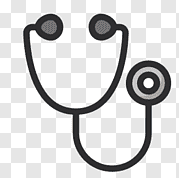
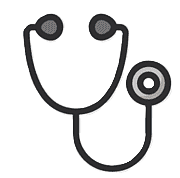
botones en inicio incluidos

diff --git a/src/app/pages/inicio/inicio.css b/src/app/pages/inicio/inicio.css
@@ -11,16 +11,7 @@
     margin-bottom: 0 !important; /* <--- Asegura que el carrusel no tenga margen inferior */
     margin-top: 0 !important;    /* <--- Asegura que no tenga margen superior */
 }
-.btn1 {
-  background: var(--grad-clinacap);
-  color: #ffffff;
-  font-weight: bold;
-  border: none;
-  border-radius: 8px;
-  padding: 12px 24px;
-  box-shadow: 0 4px 6px rgba(0, 86, 145, 0.2);
-}
-/* Traducido a CSS estándar para tu archivo navbar.css */
+
 .carousel {
     --carousel-transition-duration: .6s;
 }
@@ -38,14 +29,14 @@
     opacity: 0.9;
 }
 
-/* Ajuste de la transición suave que pediste */
+/* Ajuste de la transición suave  */
 .carousel-item {
     transition: transform var(--carousel-transition-duration) ease-in-out;
 }
 /* Ajusta el tamaño del contenedor del carrusel */
 .carousel-inner {
-    max-height: 420px; /* Cambia este valor a tu gusto (ej. 300px o 500px) */
-    background-color: #f8f9fa; /* Color de fondo si la imagen no llena el ancho */
+    max-height: 420px; 
+    background-color: #f8f9fa; 
 }
 
 /* Ajusta las imágenes para que no se deformen */
@@ -54,4 +45,58 @@
     object-fit: cover; /* 'contain' para que se vea la imagen completa, 'cover' para que llene el espacio */
     margin: 0 auto; /* Centra la imagen si es más angosta que la pantalla */
   
+}
+
+/* Contenedor principal de los accesos */
+.menu-accesos {
+    display: flex;
+    justify-content: center;
+    gap: 40px;          /* Espacio entre botones */
+    padding: 40px 20px;
+    background-color: #e2f1f0;
+}
+
+/* Contenedor individual (Imagen + Texto) */
+.acceso-item {
+    display: flex;
+    flex-direction: column;
+    align-items: center;
+    text-align: center;
+}
+
+/* El botón circular */
+.btn-circular {
+    width: 100px;       /* Ajusta el tamaño según prefieras */
+    height: 100px;
+    border-radius: 30%; /* Lo hace redondo */
+    border: 3px solid #039ca7; /* Color acorde a tu gradiente */
+    background-color: white;
+    overflow: hidden;   /* Para que la imagen no se salga del círculo */
+    cursor: pointer;
+    transition: transform 0.3s ease, box-shadow 0.3s ease;
+    display: flex;
+    align-items: center;
+    justify-content: center;
+    padding: 0;
+}
+
+.btn-circular img {
+    width: 100%;
+    height: 100%;
+    object-fit: cover;
+}
+
+/* Efecto al pasar el mouse */
+.btn-circular:hover {
+    transform: scale(1.3);
+    box-shadow: 0 8px 15px rgba(46, 53, 54, 0.582);
+}
+
+/* Estilo de la leyenda debajo */
+.leyenda {
+    margin-top: 12px;
+    font-weight: bold;
+    color: #039ca7;
+    font-size: 1rem;
+    font-family: sans-serif;
 }

diff --git a/src/app/pages/inicio/inicio.html b/src/app/pages/inicio/inicio.html
@@ -24,3 +24,37 @@
     </div>
 </div>
 
+<div class="menu-accesos">
+        <div class="acceso-item">
+        <button class="btn-circular">
+            <img src="especialistas.png" alt="Especialistas">
+        </button>
+        <p class="leyenda">Especialistas</p>
+    </div>
+    <div class="acceso-item">
+        <button class="btn-circular">
+            <img src="laboratorio.png" alt="Laboratorio">
+        </button>
+        <p class="leyenda">Laboratorio</p>
+    </div>
+
+    <div class="acceso-item">
+        <button class="btn-circular">
+            <img src="examen1.png" alt="Toma de Muestra">
+        </button>
+        <p class="leyenda">Toma de Muestra</p>
+    </div>
+
+    <div class="acceso-item">
+        <button class="btn-circular">
+            <img src="presupuesto.png" alt="Presupuestos">
+        </button>
+        <p class="leyenda">Presupuestos</p>
+    </div>
+        <div class="acceso-item">
+        <button class="btn-circular">
+            <img src="dental.jpg" alt="Consulta dental">
+        </button>
+        <p class="leyenda">Consulta Dental</p>
+    </div>
+</div>
